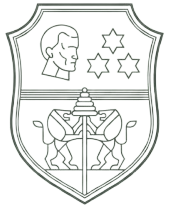
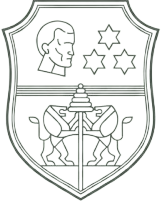
aggiornamento

diff --git a/index.html b/index.html
@@ -38,31 +38,52 @@ background-color: whitesmoke;
 
 body {
   margin: 0;
-  padding: 0;
   min-height: 100vh;
-  overflow-x: hidden;
-
   font-family: 'Playfair Display', serif;
-  background-attachment: scroll;
-  background-size: 100% 50%;
-background-image: url("ripeti.jpg");
-  background-repeat: repeat;
-    min-height: 100vh;
-    margin: 0;
-    display: flex;
-    flex-direction: column;
 
+ 
 }
+
 body::before {
   content: "";
   position: fixed;
   inset: 0;
-  background-image: url("ripeti.png");
+  pointer-events: none;
+
+  background-image: url("ripeti1.jpg");
+  background-repeat: repeat;
+  background-attachment: scroll;
+
+  /* fondamentale: NON deformare il pattern */
+  background-size: auto;
+  opacity: 0.4; /* opacity SOLO del pattern */
+}
+/* body::before {
+  content: "";
+  position: fixed;
+  inset: 0;
+
+  background-image: url("ripeti3.png");
+  background-repeat: repeat;
+  background-size: auto;
+
+  background-color: rgba(255, 255, 255, 0.6);
+  background-blend-mode: lighten;
+
+  pointer-events: none;
+  z-index: 0;
+} */
+
+/* body::before {
+  content: "";
+  position: fixed;
+  inset: 0;
+  background-image: url("ripeti1.png");
   background-repeat: repeat;
   background-size: auto;
   opacity: 0.2;
   z-index: -1;
-}
+} */
 
 .primo{
     min-height: calc(100vh - 10px);
@@ -89,14 +110,12 @@ body::before {
 }
 
 .book {
-  position: absolute;
+  position: fixed;
   inset: 0;
-  perspective: 2200px;
-  z-index: 10;
+  height: 100dvh;
   overflow: hidden;
-
+  z-index: 2000;
 }
-
 
 /* SINISTRA */
 .left,
@@ -104,7 +123,7 @@ body::before {
     position:absolute;
     top:0;
     width:50%;
-    height:100%;
+    height:100dvh;
     transition: transform 2.2s cubic-bezier(.77,0,.18,1);
     transform-style: preserve-3d;
     backface-visibility:hidden;
@@ -114,31 +133,33 @@ body::before {
   left: 0;
   transform-origin: left center;
 
-  background-image: url("sfondo.jpg");
+  background-image: url("init.png");
   background-repeat: no-repeat;
 
   background-size: 200% 100%;
   background-position: left center;
+  filter: brightness(1.1);
 }
 
 .right{
     right:0;
     transform-origin:right center;
 
-  background-image: url("sfondo.jpg");
+  background-image: url("init.png");
   background-repeat: no-repeat;
 
   background-size: 200% 100%;
   background-position: right center;
+  filter: brightness(1.1);
 }
 
-.right::before,
+/* .right::before,
 .right::after {
     content: "";
     position: absolute;
     top: 0;
     width: 18px;
-    height: 100%;
+     height:100dvh;;
 
     background: linear-gradient(
         180deg,
@@ -152,7 +173,7 @@ body::before {
         inset -2px 0 4px rgba(0,0,0,0.2);
 
     z-index: 15;
-}
+} */
 
 .right::before {
     left: 0px;
@@ -185,7 +206,7 @@ body::before {
   margin: 0 auto;
   z-index: 1;
   opacity: 0;
-   display: none;
+  display: none;
 }
 
 .top-image{
@@ -593,16 +614,18 @@ body::before {
 
 .stemmaChiesa-icon{
     z-index: 3;
-  margin-bottom: 10px;
-  width: 300px;
+   margin-top: 10px;
+  width: 80px;
   height: 80px; 
+    margin-bottom: 5px;
 }
 
 .stemmi-icon {
   z-index: 3;
   width: 80px;
-  height: 80px;      /* piccolo bordo, non gigante */
+  height: 75px;      /* piccolo bordo, non gigante */
   margin-top: 10px;
+  margin-bottom: 5px;
 }
 
 /* LINK LOCATION */
@@ -664,16 +687,20 @@ body::before {
     width: 100%;
     max-width: 600px;
     box-sizing: border-box;
-
     display: flex;
     flex-direction: column;
     align-items: center;
     text-align: center;
+    padding: 0px;
+    margin: 0px;
+
 }
 
        /* Sezione Titolo Cerimonia */
        .section-title {
-        
+        padding: 0px;
+        margin: 0;
+
            font-family: 'Cinzel', serif;
            font-size: 18px;
            font-weight: 400;
@@ -818,9 +845,6 @@ body::before {
       </div>
       <div class="right" id="rightPage">
         
-        <div class="ribbon">
-  <div class="knot"></div>
-</div>
         <img id="openBtn" src="cera.png" alt="Apri l'invito">
       </div>
 
@@ -845,20 +869,19 @@ body::before {
     <!-- CERIMONIA -->
      <div class="divider" >
    <div class="invitation-card" >
-    <a href="https://www.google.it/maps/place/Basilica+of+the+Crowned+Mother+of+Good+Counsel+and+Queen+of+the+Catholic+Church/@40.8649994,14.2469316,17z/data=!3m2!4b1!5s0x133b087b1480bb21:0x202069aca76c99fb!4m6!3m5!1s0x133b087b12fa8291:0x5b8ca8d302e38fe8!8m2!3d40.8649994!4d14.2469316!16s%2Fm%2F026wfm_"
-  target="_blank"
-  class="location-link">
+   
 <h1 class="section-title" >Cerimonia</h1>
-<div class="image-container">
-<img src="chiesa2.png" alt="Illustrazione Basilica del Buon Consiglio">
-</div>
+<img src="chiesa2.png" alt="Illustrazione Basilica del Buon Consiglio" style="width:120px; height:90px; object-fit:contain;">
 <div class="location-details" >
-   <i class="fa-solid fa-location-dot"></i>
 <h2 class="venue-name">Basilica dell’Incoronata Madre del Buon Consiglio</h2>
 <p class="address">Via Capodimonte 13, Napoli</p>
+   <a href="https://www.google.it/maps/place/Basilica+of+the+Crowned+Mother+of+Good+Counsel+and+Queen+of+the+Catholic+Church/@40.8649994,14.2469316,17z/data=!3m2!4b1!5s0x133b087b1480bb21:0x202069aca76c99fb!4m6!3m5!1s0x133b087b12fa8291:0x5b8ca8d302e38fe8!8m2!3d40.8649994!4d14.2469316!16s%2Fm%2F026wfm_"
+  target="_blank"
+  class="info-button">
+                 Vedi sulla mappa
+            </a>
 </div>
 <img  class="stemmaChiesa-icon" src="stemmachiesa.png" alt="Stemma Araldico">
-</a>
 </div>
 </div>
 
@@ -868,7 +891,7 @@ body::before {
 
 <h1 class="section-title">Ricevimento</h1>
 
-<img src="villa2.png" alt="Illustrazione Basilica del Buon Consiglio" style="width:200px; height:120px; object-fit:cover;">
+<img src="villabordi.png" alt="Illustrazione Basilica del Buon Consiglio" style="width:100px; height:90px; object-fit:cover;">
 <div class="location-details">
 
 <h2 class="venue-name">Villa Soglia </h2>
@@ -987,44 +1010,44 @@ body::before {
     const opened = localStorage.getItem("invitoAperto") === "true";
     const time = localStorage.getItem("invitoApertoTime");
 
-    const TEN_MIN = 10 * 60 * 1000;
-
-    if (opened ) {
-
-      a4.style.opacity = "1";
-      a4.style.pointerEvents = "auto";
-    }
-
+    const TEN_MIN = 3 * 60 * 1000;
 
     if (opened ) {
     // salta effetto libro
    // book.style.display = "none";
     document.body.classList.remove("locked");
     document.body.classList.add("unlocked");
-
-    a4.style.opacity = "1";
     a4.style.pointerEvents = "auto";
+    book.style.display = "none";
+     a4.style.display = "block";
+    a4.style.opacity = "1";
     }
+     if (opened && Date.now() - time >= TEN_MIN) {
+         book.style.display = "block";
+    }
+
+
    btn.addEventListener("click", () => {
    document.body.classList.remove("locked");
     document.body.classList.add("unlocked");
-    localStorage.setItem("invitoAperto", "true");
-    localStorage.setItem("invitoApertoTime", Date.now());
-  rightPage.style.transform = "rotateY(120deg)";
 
-   a4.style.display = "block";
+    rightPage.style.transform = "rotateY(120deg)";
+ 
 
   rightPage.style.transform = "rotateY(120deg)";
 
+    a4.style.display = "block";
+    a4.style.opacity = "1";
   setTimeout(() => {
     leftPage.style.transform = "rotateY(-120deg)";
   }, 500);
-
   setTimeout(() => {
-    //localStorage.setItem("invitoAperto", "true");
-    //localStorage.setItem("invitoApertoTime", Date.now());
-   // book.style.display = "none"; 
+   localStorage.setItem("invitoAperto", "true");
+    localStorage.setItem("invitoApertoTime", Date.now());
+      book.style.display = "none"; 
   }, 5000);
+  
+
 });
   </script>
 